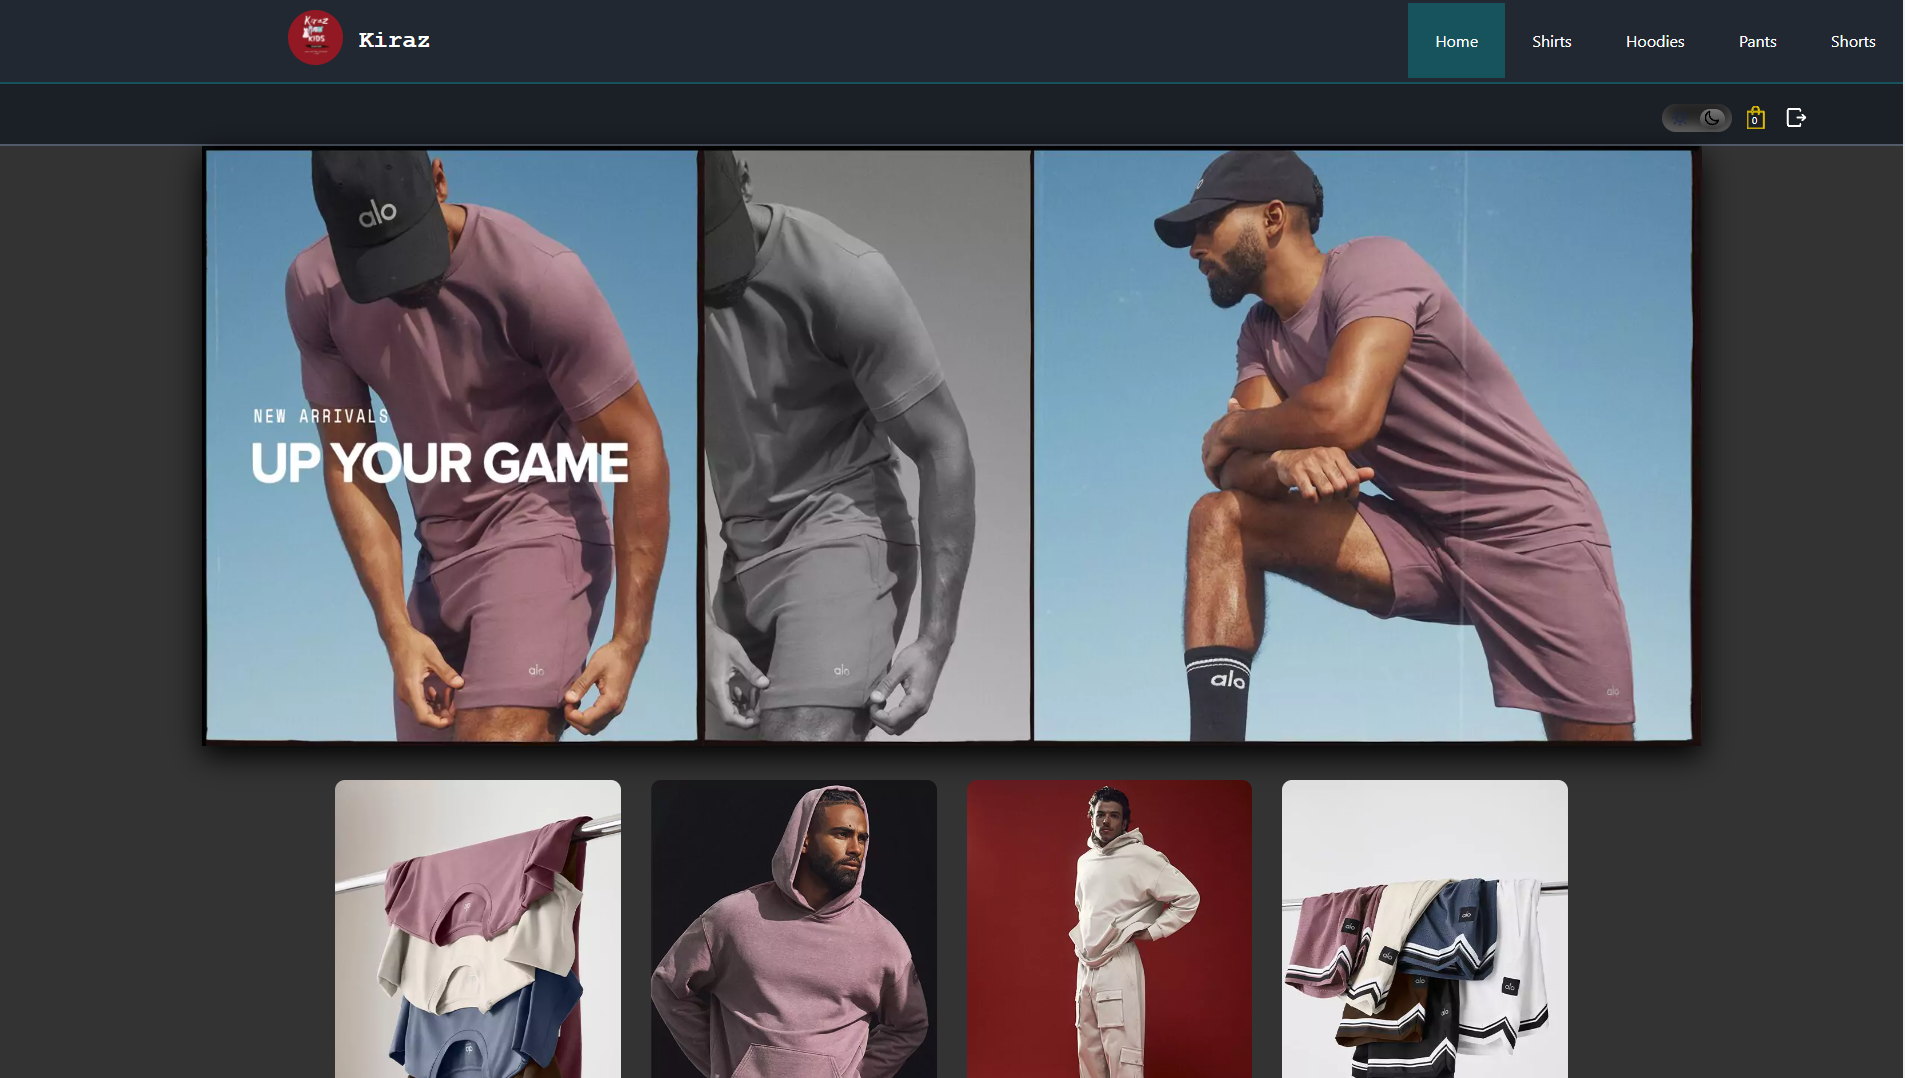
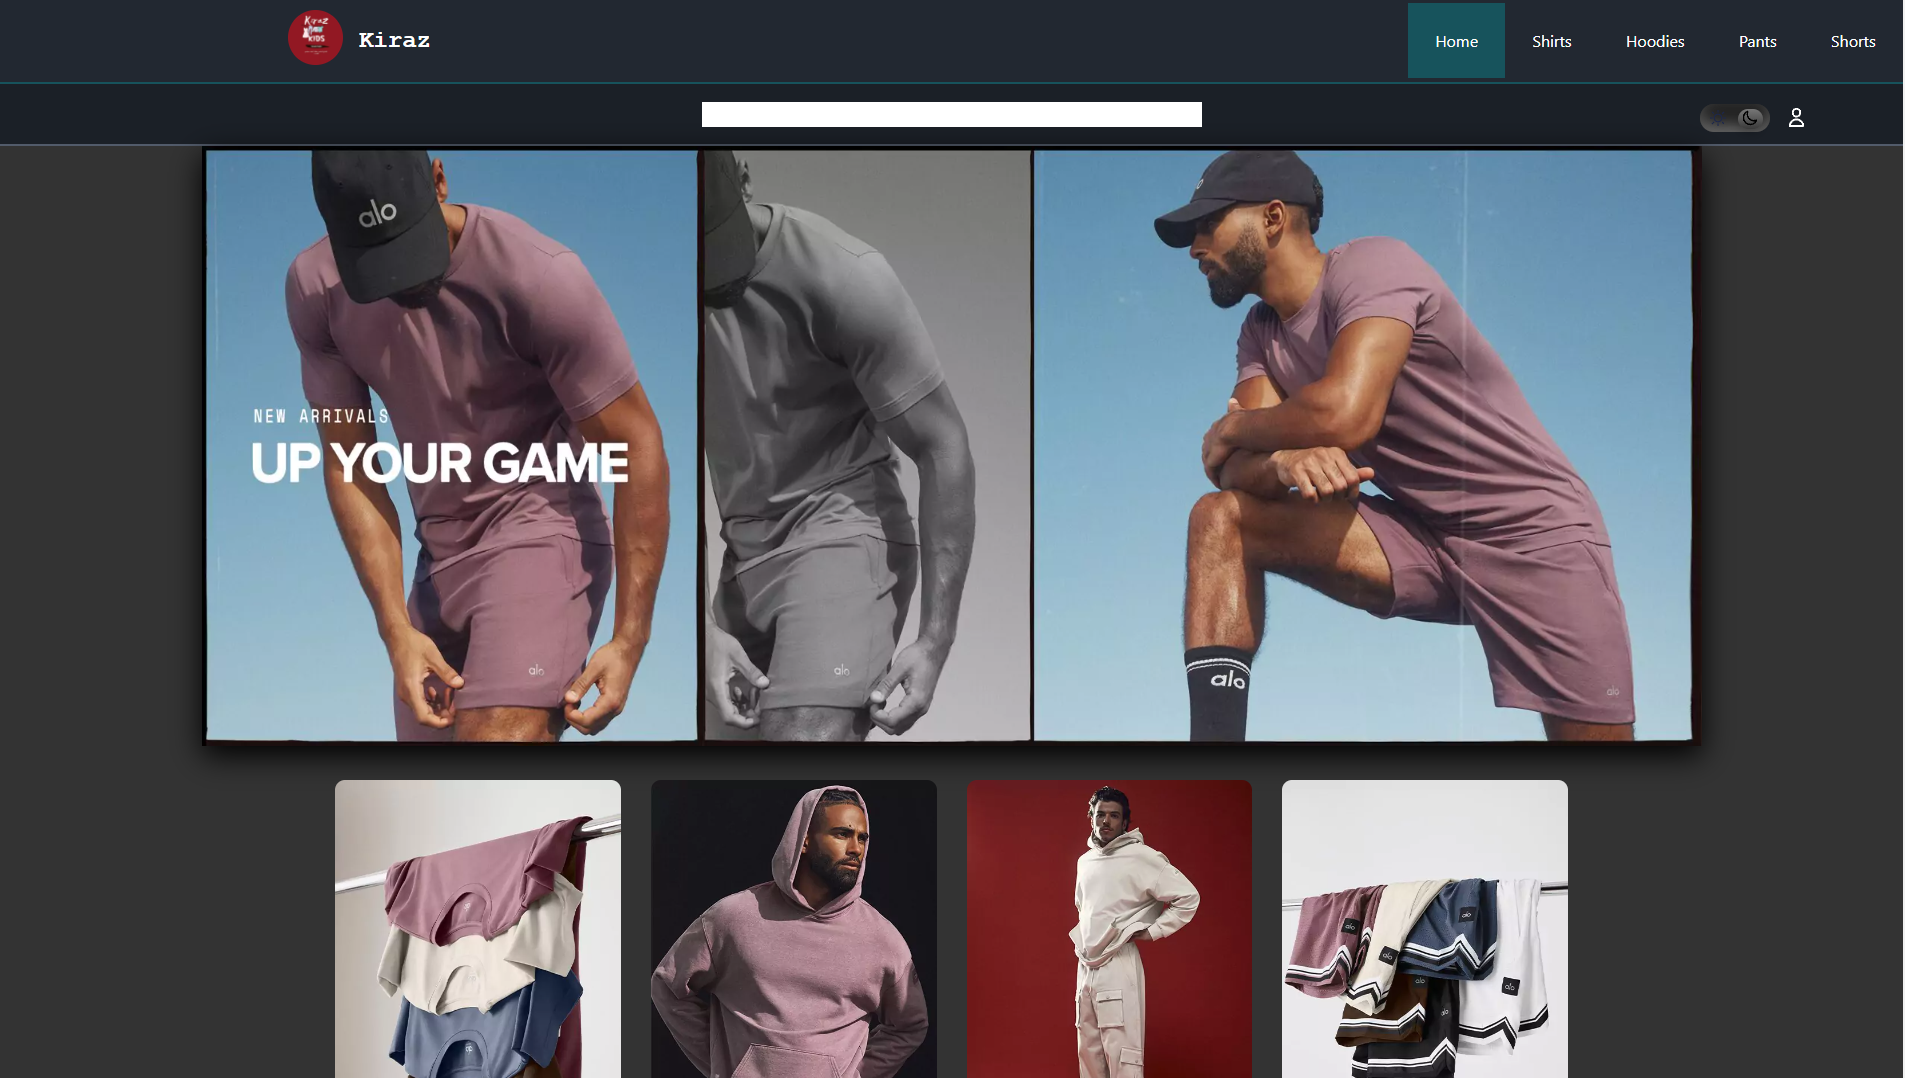
updated home png

Changed region(s): [[0.3717, 0.0918, 0.6504, 0.1224], [0.8672, 0.0918, 0.9601, 0.1224]]

diff --git a/README.md b/README.md
@@ -61,6 +61,7 @@ Link: https://kiraz-clothing.netlify.app/
 - Navigation bar to move to a different page.
 - The site is fully responsive.
 - Used one generic modal for the whole site.
+- You can use the search bar to search for products.
 
 ---
 

diff --git a/client/README.md b/client/README.md
@@ -59,6 +59,7 @@ Link: https://kiraz-clothing.netlify.app/
 - Navigation bar to move to a different page.
 - The site is fully responsive.
 - Used one generic modal for the whole site.
+- You can use the search bar to search for products.
 
 ---
 
